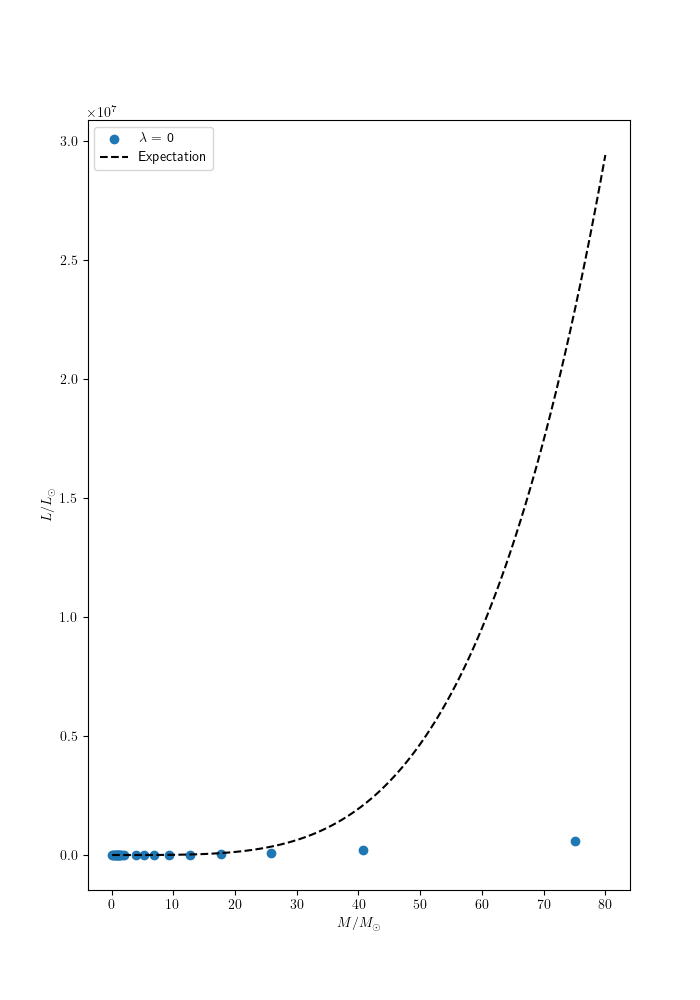
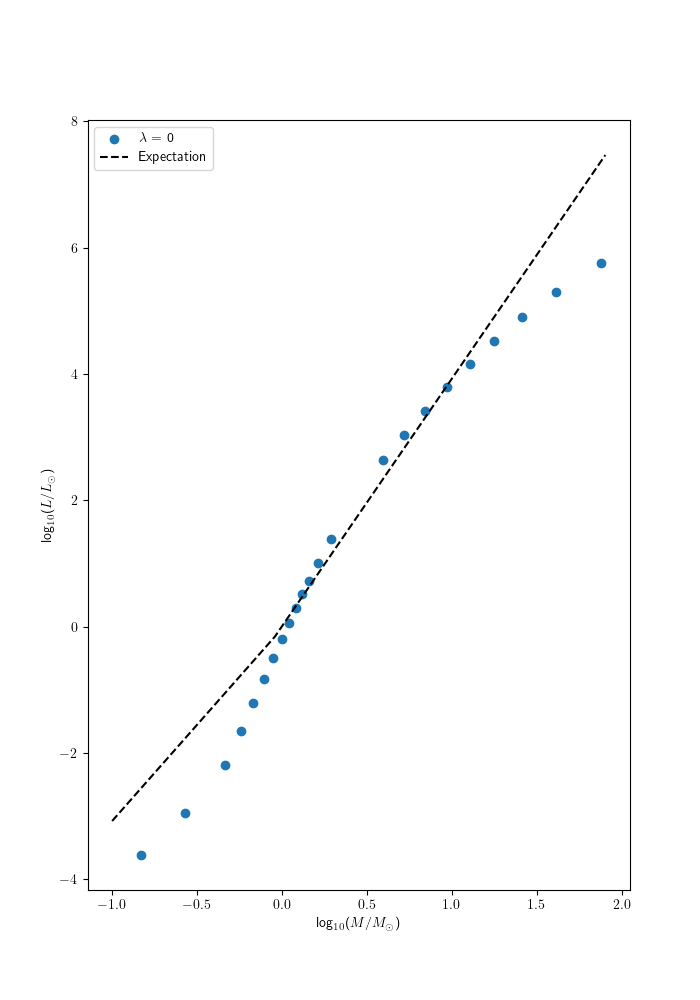
Logarithmic Plots
Now if things were off by a factor of 1000, it's only a factor of 3 :)))))))))))))))))))))))

diff --git a/diagrams.py b/diagrams.py
@@ -87,7 +87,7 @@ def LM_diag(data, savepath=""):
         Lscaled = fff[filter].L/s.Lsun * 1e-7
         Mscaled = fff[filter].M/s.Msun / 1000
 
-        ax.scatter(Mscaled, Lscaled, label=rf'$\lambda$ = {lam}')
+        ax.scatter(np.log10(Mscaled), np.log10(Lscaled), label=rf'$\lambda$ = {lam}')
 
     #from Ryden p. 330
     Mtest = np.linspace(0.1, 80, 100)
@@ -98,10 +98,10 @@ def LM_diag(data, savepath=""):
         else:
             Ltest.append(1.02*(M**3.92))
 
-    plt.plot(Mtest, Ltest, label='Expectation', ls='--', color='black')
+    plt.plot(np.log10(Mtest), np.log10(Ltest), label='Expectation', ls='--', color='black')
 
-    ax.set_xlabel(r'$M$/$M_\odot$')
-    ax.set_ylabel(r'$L$/$L_\odot$')
+    ax.set_xlabel(r'log$_{10}$($M$/$M_\odot$)')
+    ax.set_ylabel(r'log$_{10}$($L$/$L_\odot$)')
 
     plt.legend()
 
@@ -131,7 +131,7 @@ def RM_diag(data, savepath=""):
         Rscaled = fff[filter].R/s.Rsun / 100
         Mscaled = fff[filter].M/s.Msun / 1000
 
-        ax.scatter(Mscaled, Rscaled, label=rf'$\lambda$ = {lam}')
+        ax.scatter(np.log10(Mscaled), np.log10(Rscaled), label=rf'$\lambda$ = {lam}')
 
     #from Ryden p. 330
     Mtest = np.linspace(0.1, 80, 100)
@@ -142,10 +142,10 @@ def RM_diag(data, savepath=""):
         else:
             Rtest.append(1.33*(M**0.555))
 
-    plt.plot(Mtest, Rtest, label='Expectation', ls='--', color='black')
+    plt.plot(np.log10(Mtest), np.log10(Rtest), label='Expectation', ls='--', color='black')
 
-    ax.set_xlabel(r'$M$/$M_\odot$')
-    ax.set_ylabel(r'$R$/$R_\odot$')
+    ax.set_xlabel(r'log$_{10}$($M$/$M_\odot$)')
+    ax.set_ylabel(r'log$_{10}$($R$/$R_\odot$)')
 
     plt.legend()
 
